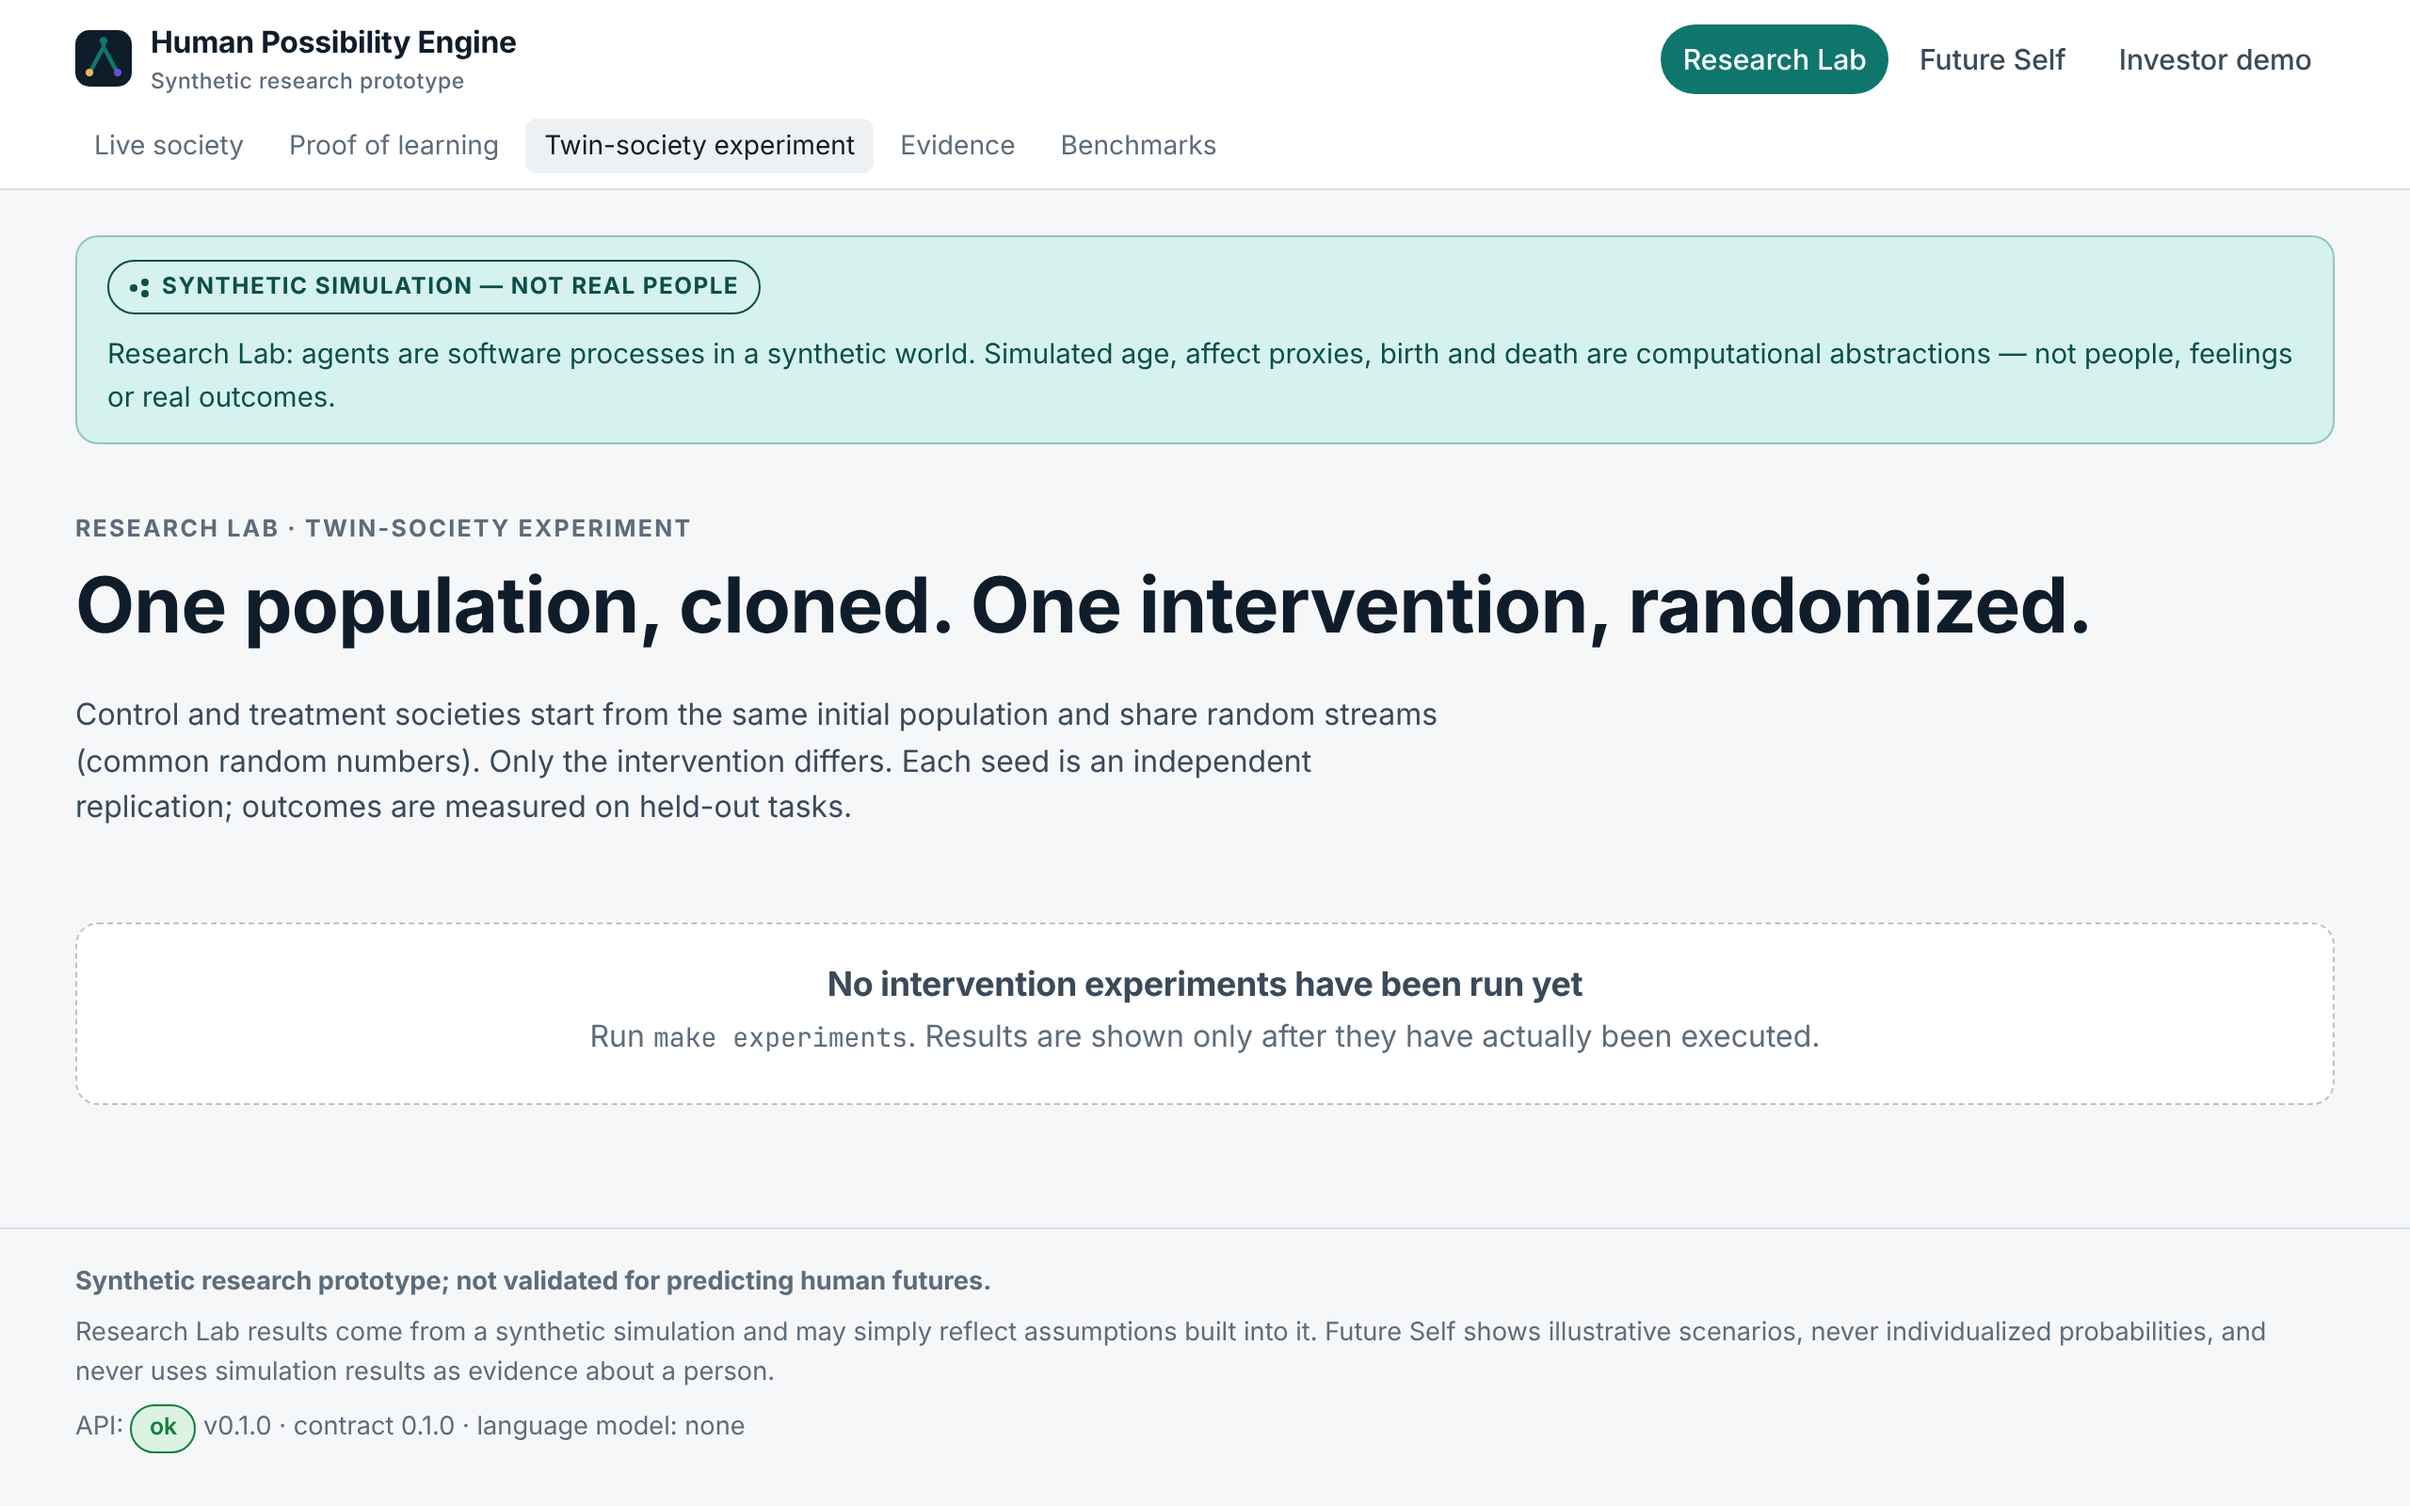
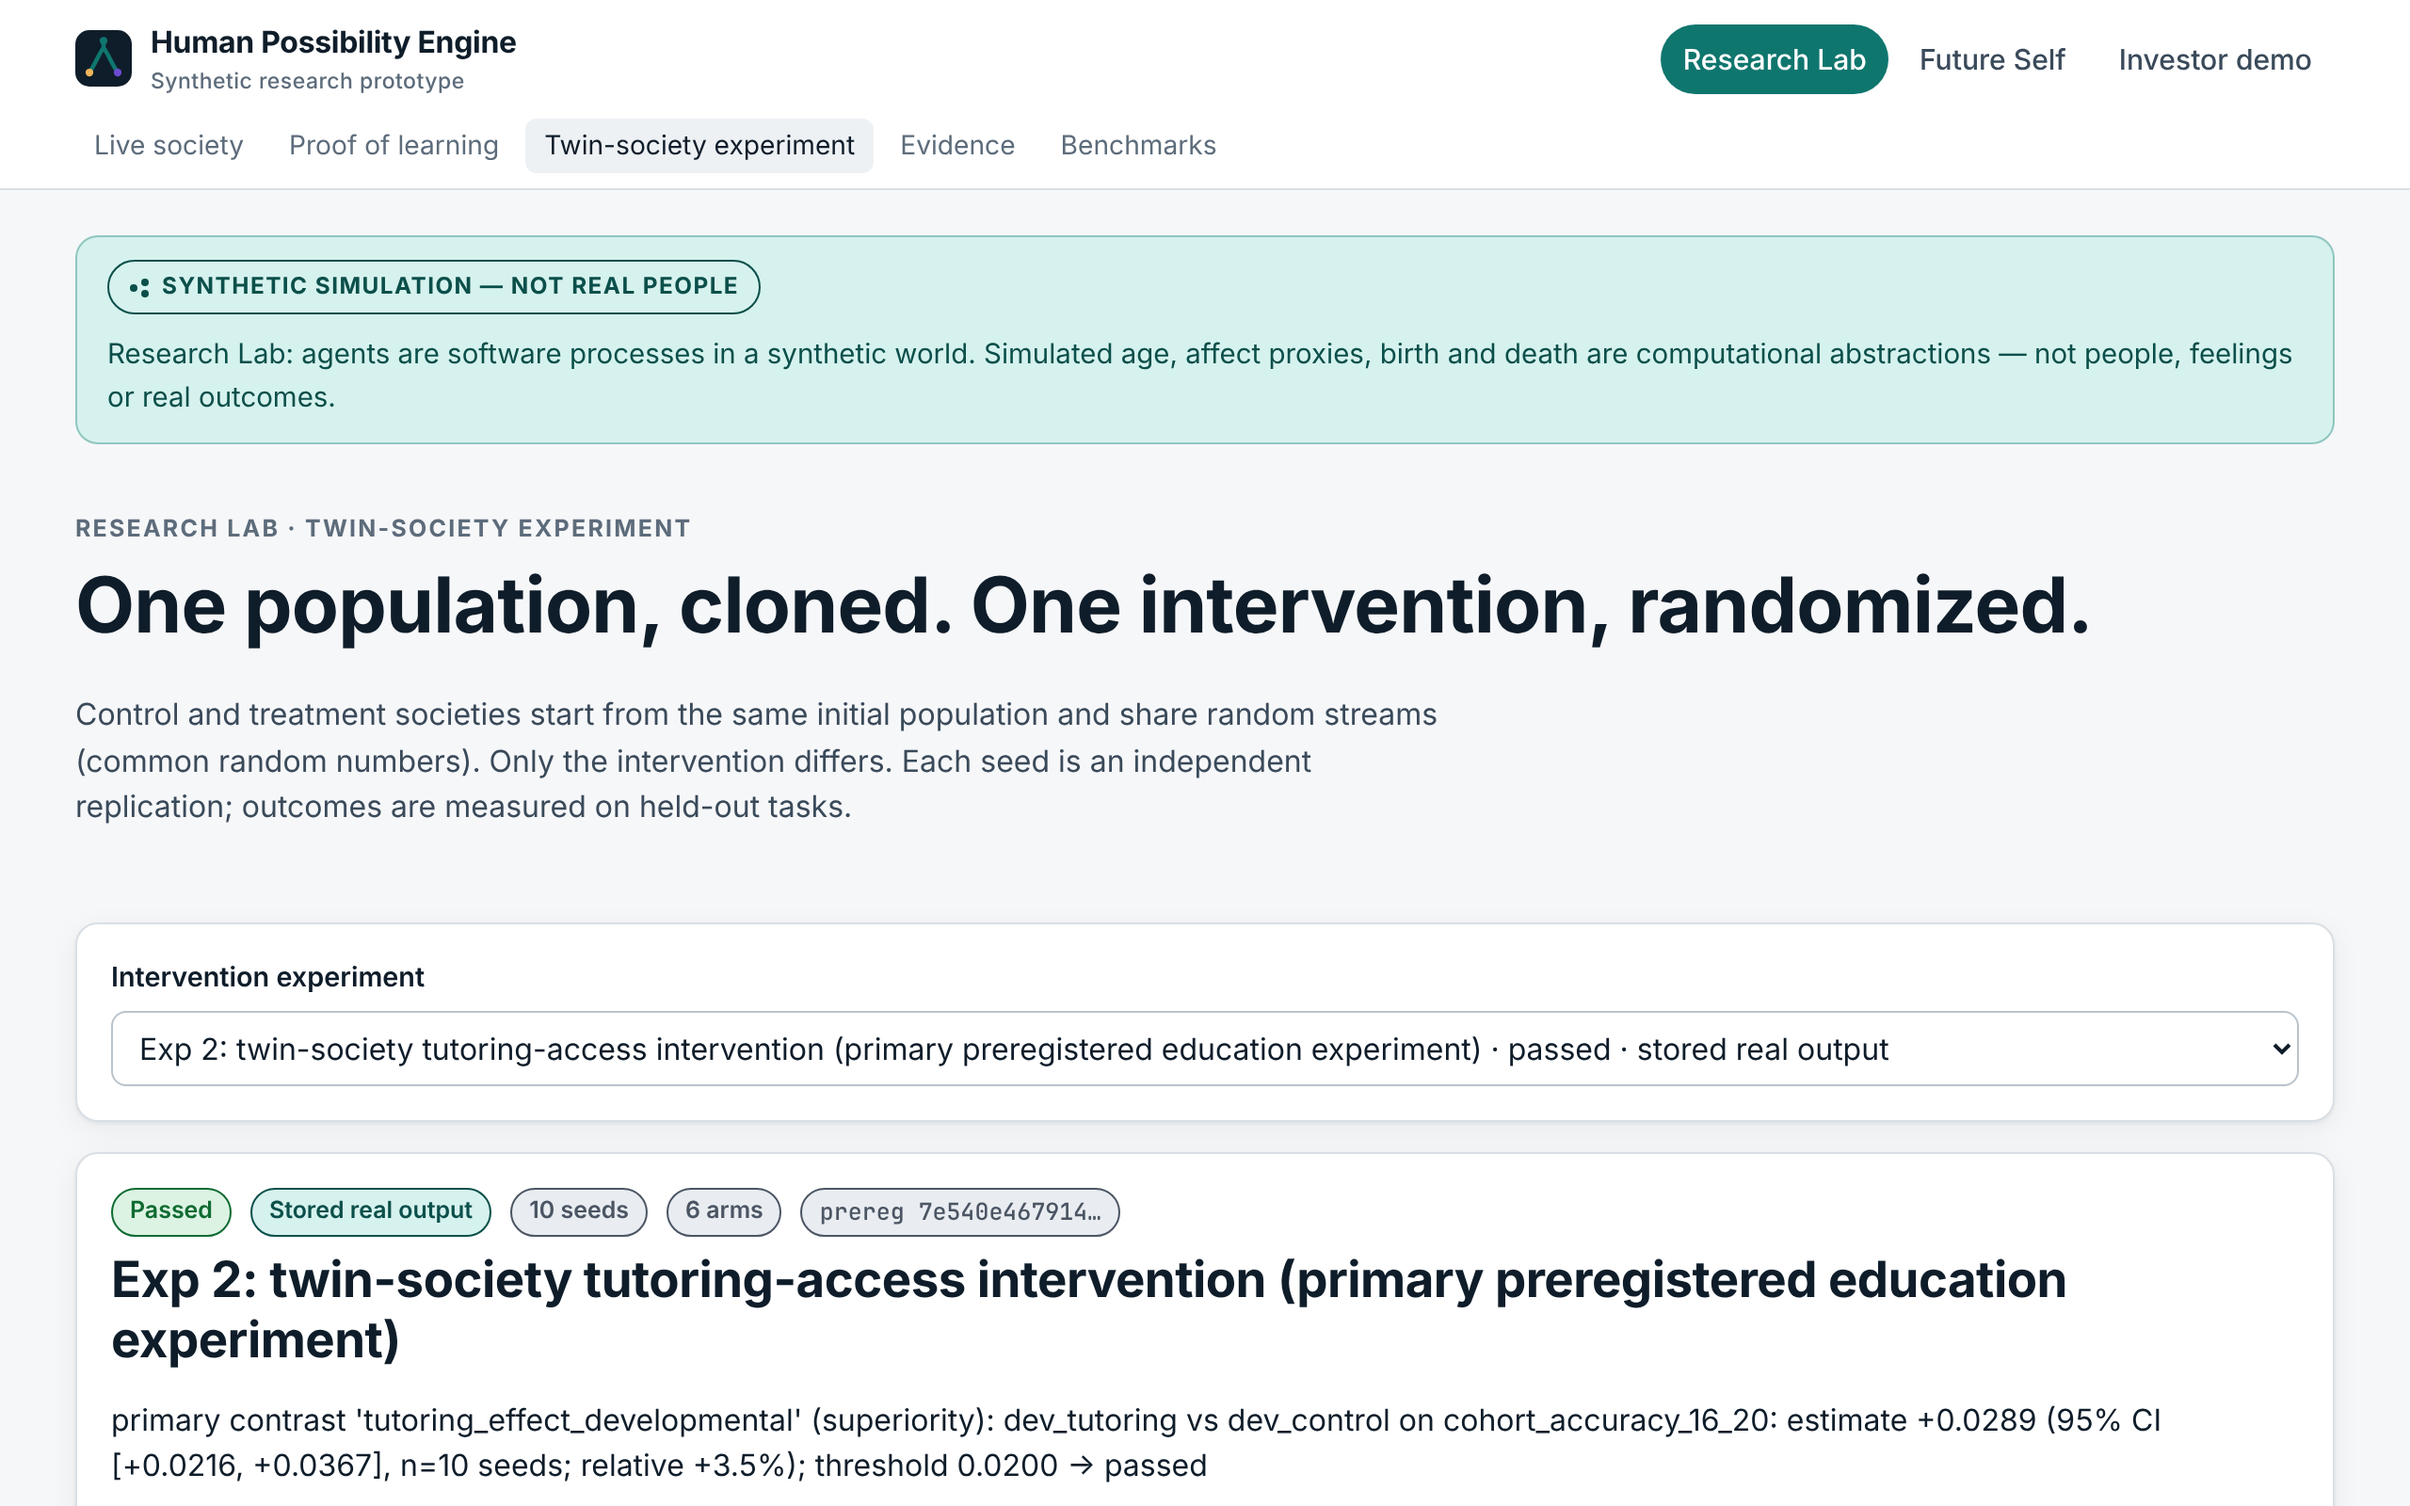
integration: twin-society and proof-of-learning pages now show the real experiments; API serves outcome samples from run logs
Found by end-to-end check against the real API after Exp 2 landed:
- web: isIntervention required a single policy class, so the primary
  tutoring experiment (which includes static-persona mechanism-check arms)
  was filtered out and the page showed its empty state. Now: intervention =
  any arm with interventions; proof-of-learning = every non-intervention
  experiment (adds the ablations experiment to that page).
- api: outcomes_sample was always empty because the service looked for
  outcomes.jsonl.gz in the experiment dir, while the runner writes
  runs/<run_id>/outcomes.jsonl.gz. Now reads per-run logs, prefers __main__
  runs (sensitivity variants reuse arm/seed), drops leakage and per-agent
  rows, thins curve rows to a bounded payload (<=4000 rows); 3 new tests.
- web: empty/error-state heading is h2 (last axe heading-order violation);
  axe now 0 violations on 9 routes x 2 themes (reports/audit/a11y_e2e_after_fix.json).
- README screenshots retaken with the experiments rendered.

Claude-Session: https://claude.ai/code/session_0146MeJjPxzTKxNtNvMUNQyp

Changed region(s): [[0.0312, 0.7812, 0.9375, 1.0], [0.0625, 0.625, 0.9375, 0.75], [0.0312, 0.625, 0.1875, 0.6562]]

diff --git a/apps/web/src/lib/experiments.ts b/apps/web/src/lib/experiments.ts
@@ -5,12 +5,16 @@ export function policyClasses(def: ExperimentDefinition): string[] {
   return [...new Set(def.arms.map((a) => a.policy_class))];
 }
 
-export function isBaselineComparison(def: ExperimentDefinition): boolean {
-  return policyClasses(def).length >= 2;
+/** An intervention (twin-society) experiment: some arm applies a world intervention.
+ *  Several policy classes may be present — e.g. a non-learning class used as a mechanism check.
+ *  Learning-lab arms that differ only by world_overrides (feedback conditions) are not interventions. */
+export function isIntervention(def: ExperimentDefinition): boolean {
+  return def.arms.some((a) => (a.interventions?.length ?? 0) > 0);
 }
 
-export function isIntervention(def: ExperimentDefinition): boolean {
-  return policyClasses(def).length === 1 && def.arms.some((a) => (a.interventions?.length ?? 0) > 0 || Object.keys(a.world_overrides ?? {}).length > 0);
+/** A baseline comparison: several policy classes under identical conditions (no interventions). */
+export function isBaselineComparison(def: ExperimentDefinition): boolean {
+  return policyClasses(def).length >= 2 && !isIntervention(def);
 }
 
 export function armColor(def: ExperimentDefinition | undefined, arm: string, i: number): string {

diff --git a/apps/web/src/pages/lab/ProofOfLearning.tsx b/apps/web/src/pages/lab/ProofOfLearning.tsx
@@ -11,7 +11,7 @@ import { IntervalPlot } from "../../components/charts/IntervalPlot";
 import { FAMILY_META, chanceFor, policyLabel } from "../../lib/families";
 import { curvesFromOutcomes, metricsIn, perSeedValues, summarize } from "../../lib/stats";
 import { ArmsTable, EffectsView, ExperimentHeader, ExperimentPicker, LimitationsPanel, RecordsTable, RunDownloads } from "./ExperimentParts";
-import { armColor, isBaselineComparison } from "../../lib/experiments";
+import { armColor, isIntervention } from "../../lib/experiments";
 
 function chanceForMetric(metric: string): number | undefined {
   if (!/acc/i.test(metric)) return undefined;
@@ -22,7 +22,7 @@ function chanceForMetric(metric: string): number | undefined {
 export default function ProofOfLearning() {
   const [params, setParams] = useSearchParams();
   const list = useApi((s) => api.listExperiments(s), []);
-  const candidates = useMemo(() => (list.data ?? []).filter((x) => isBaselineComparison(x.definition)), [list.data]);
+  const candidates = useMemo(() => (list.data ?? []).filter((x) => !isIntervention(x.definition)), [list.data]);
   const id = params.get("id");
   useEffect(() => {
     if (!id && candidates[0]) setParams({ id: candidates[0].experiment_id }, { replace: true });

diff --git a/apps/web/src/components/AsyncState.tsx b/apps/web/src/components/AsyncState.tsx
@@ -15,7 +15,7 @@ export function ErrorState({ error, onRetry, title = "Something went wrong" }: {
   const network = isApi && error.isNetwork;
   return (
     <div className="state state--error" role="alert">
-      <h3>{network ? "Cannot reach the API" : title}</h3>
+      <h2 className="empty-title">{network ? "Cannot reach the API" : title}</h2>
       <p>{error.message}</p>
       {network && (
         <p className="muted">
@@ -39,7 +39,7 @@ export function ErrorState({ error, onRetry, title = "Something went wrong" }: {
 export function EmptyState({ title, children }: { title: string; children?: ReactNode }) {
   return (
     <div className="state">
-      <h3>{title}</h3>
+      <h2 className="empty-title">{title}</h2>
       {children && <div className="muted">{children}</div>}
     </div>
   );

diff --git a/apps/web/src/pages/pages.test.tsx b/apps/web/src/pages/pages.test.tsx
@@ -37,7 +37,7 @@ describe("routes", () => {
       throw new ApiError("Cannot reach the API at http://127.0.0.1:8000. Is the backend running?", 0, path);
     });
     at("/lab/learning");
-    expect(await screen.findByText("Cannot reach the API", { selector: "h3" })).toBeInTheDocument();
+    expect(await screen.findByText("Cannot reach the API", { selector: "h2" })).toBeInTheDocument();
   });
 
   it("evidence page renders claims from the API", async () => {

diff --git a/apps/api/hpe_api/experiment_service.py b/apps/api/hpe_api/experiment_service.py
@@ -61,24 +61,65 @@ def default_runner_resolver() -> ExperimentRunner:
     return _run
 
 
-def _read_outcomes(exp_dir: Path, limit: int = 200) -> list[OutcomeObservation]:
+def _outcome_files(exp_dir: Path) -> list[Path]:
+    """Outcome logs of an experiment: a legacy top-level file, or one per run under ``runs/``.
+
+    Sensitivity variants reuse arm names and seeds, so when ``__main__`` runs exist only those are
+    served; the page would otherwise see duplicate (arm, seed) pairs.
+    """
+    top = [exp_dir / n for n in ("outcomes.jsonl.gz", "outcomes.jsonl") if (exp_dir / n).exists()]
+    if top:
+        return top[:1]
+    runs = sorted(p for p in exp_dir.glob("runs/*/outcomes.jsonl*") if p.is_file())
+    main = [p for p in runs if "__main__" in p.parent.name]
+    return main or runs
+
+
+def _read_rows(p: Path) -> list[OutcomeObservation]:
+    opener = gzip.open if p.name.endswith(".gz") else open
+    rows: list[OutcomeObservation] = []
+    with opener(p, "rt", encoding="utf-8") as f:  # type: ignore[operator]
+        for line in f:
+            line = line.strip()
+            if not line:
+                continue
+            try:
+                rows.append(OutcomeObservation.model_validate_json(line))
+            except ValueError:
+                continue
+    return rows
+
+
+def _is_curve(o: OutcomeObservation) -> bool:
+    return o.metric.startswith(("curve/", "transfer_curve/"))
+
+
+def _read_outcomes(exp_dir: Path, limit: int = 4000) -> list[OutcomeObservation]:
+    """A bounded, representative sample of an experiment's outcome rows for the web pages.
+
+    Run-level rows only (per-agent rows are regenerable from the raw logs and too many to ship),
+    leakage counters dropped; scalar metrics are kept in full and curve rows are thinned by a fixed
+    stride so every run fits the same per-run budget. Nothing is aggregated or altered.
+    """
+    files = _outcome_files(exp_dir)
+    if not files:
+        return []
+    per_run = max(60, limit // len(files))
     out: list[OutcomeObservation] = []
-    for name in ("outcomes.jsonl.gz", "outcomes.jsonl"):
-        p = exp_dir / name
-        if not p.exists():
-            continue
-        opener = gzip.open if name.endswith(".gz") else open
-        with opener(p, "rt", encoding="utf-8") as f:  # type: ignore[operator]
-            for line in f:
-                line = line.strip()
-                if not line:
-                    continue
-                try:
-                    out.append(OutcomeObservation.model_validate_json(line))
-                except ValueError:
-                    continue
-                if len(out) >= limit:
-                    return out
+    for p in files:
+        rows = [o for o in _read_rows(p) if not o.metric.startswith("leakage/")]
+        run_level = [o for o in rows if o.agent_id is None]
+        rows = run_level or rows
+        scalars = [o for o in rows if not _is_curve(o)]
+        curves = [o for o in rows if _is_curve(o)]
+        room = max(0, per_run - len(scalars))
+        if curves and room < len(curves):
+            stride = -(-len(curves) // room) if room else 0
+            curves = curves[::stride] if stride else []
+        out.extend(scalars[:per_run])
+        out.extend(curves)
+        if len(out) >= limit * 2:
+            break
     return out
 
 

diff --git a/tests/api/test_experiment_outcomes.py b/tests/api/test_experiment_outcomes.py
@@ -1,0 +1,69 @@
+"""The experiment results endpoint must sample outcomes from the runner's on-disk layout
+(``runs/<run_id>/outcomes.jsonl.gz``), prefer main-variant runs, and bound the payload."""
+
+import gzip
+import json
+from pathlib import Path
+
+from hpe_api.experiment_service import _read_outcomes
+
+
+def _row(run_id: str, arm: str, seed: int, metric: str, value: float, agent_id: str | None = None, **kw):
+    return {
+        "run_id": run_id,
+        "experiment_id": "x",
+        "arm": arm,
+        "seed": seed,
+        "agent_id": agent_id,
+        "metric": metric,
+        "value": value,
+        "split": "holdout",
+        "source": "simulation",
+        **kw,
+    }
+
+
+def _write(p: Path, rows: list[dict]) -> None:
+    p.parent.mkdir(parents=True, exist_ok=True)
+    with gzip.open(p, "wt") as f:
+        for r in rows:
+            f.write(json.dumps(r) + "\n")
+
+
+def test_reads_runs_layout_prefers_main_and_thins_curves(tmp_path: Path):
+    exp = tmp_path / "x"
+    main = exp / "runs" / "x__main__control__s0" / "outcomes.jsonl.gz"
+    sens = exp / "runs" / "x__high_noise__control__s0" / "outcomes.jsonl.gz"
+    rows = [_row("x__main__control__s0", "control", 0, "final_heldout_accuracy", 0.8)]
+    rows += [_row("x__main__control__s0", "control", 0, "leakage/practice_items", 100.0)]
+    rows += [
+        _row("x__main__control__s0", "control", 0, "agent_accuracy@20", 0.7, agent_id=f"a{i}")
+        for i in range(50)
+    ]
+    rows += [
+        _row("x__main__control__s0", "control", 0, "curve/heldout_accuracy/sort", i / 500, tick=i)
+        for i in range(500)
+    ]
+    _write(main, rows)
+    _write(sens, [_row("x__high_noise__control__s0", "control", 0, "final_heldout_accuracy", 0.5)])
+
+    out = _read_outcomes(exp, limit=200)
+    run_ids = {o.run_id for o in out}
+    assert run_ids == {"x__main__control__s0"}, "sensitivity variants must not be mixed with main runs"
+    metrics = {o.metric for o in out}
+    assert "final_heldout_accuracy" in metrics and "leakage/practice_items" not in metrics
+    assert all(o.agent_id is None for o in out), "per-agent rows are not shipped"
+    curves = [o for o in out if o.metric.startswith("curve/")]
+    assert 0 < len(curves) <= 200 and curves[0].tick == 0 and curves[-1].tick is not None
+    assert [o.value for o in out if o.metric == "final_heldout_accuracy"] == [0.8]
+
+
+def test_legacy_top_level_file_still_read(tmp_path: Path):
+    exp = tmp_path / "y"
+    _write(exp / "outcomes.jsonl.gz", [_row("r", "a", 1, "m", 1.0)])
+    out = _read_outcomes(exp)
+    assert len(out) == 1 and out[0].metric == "m"
+
+
+def test_missing_dir_returns_empty(tmp_path: Path):
+    assert _read_outcomes(tmp_path / "nope") == []
